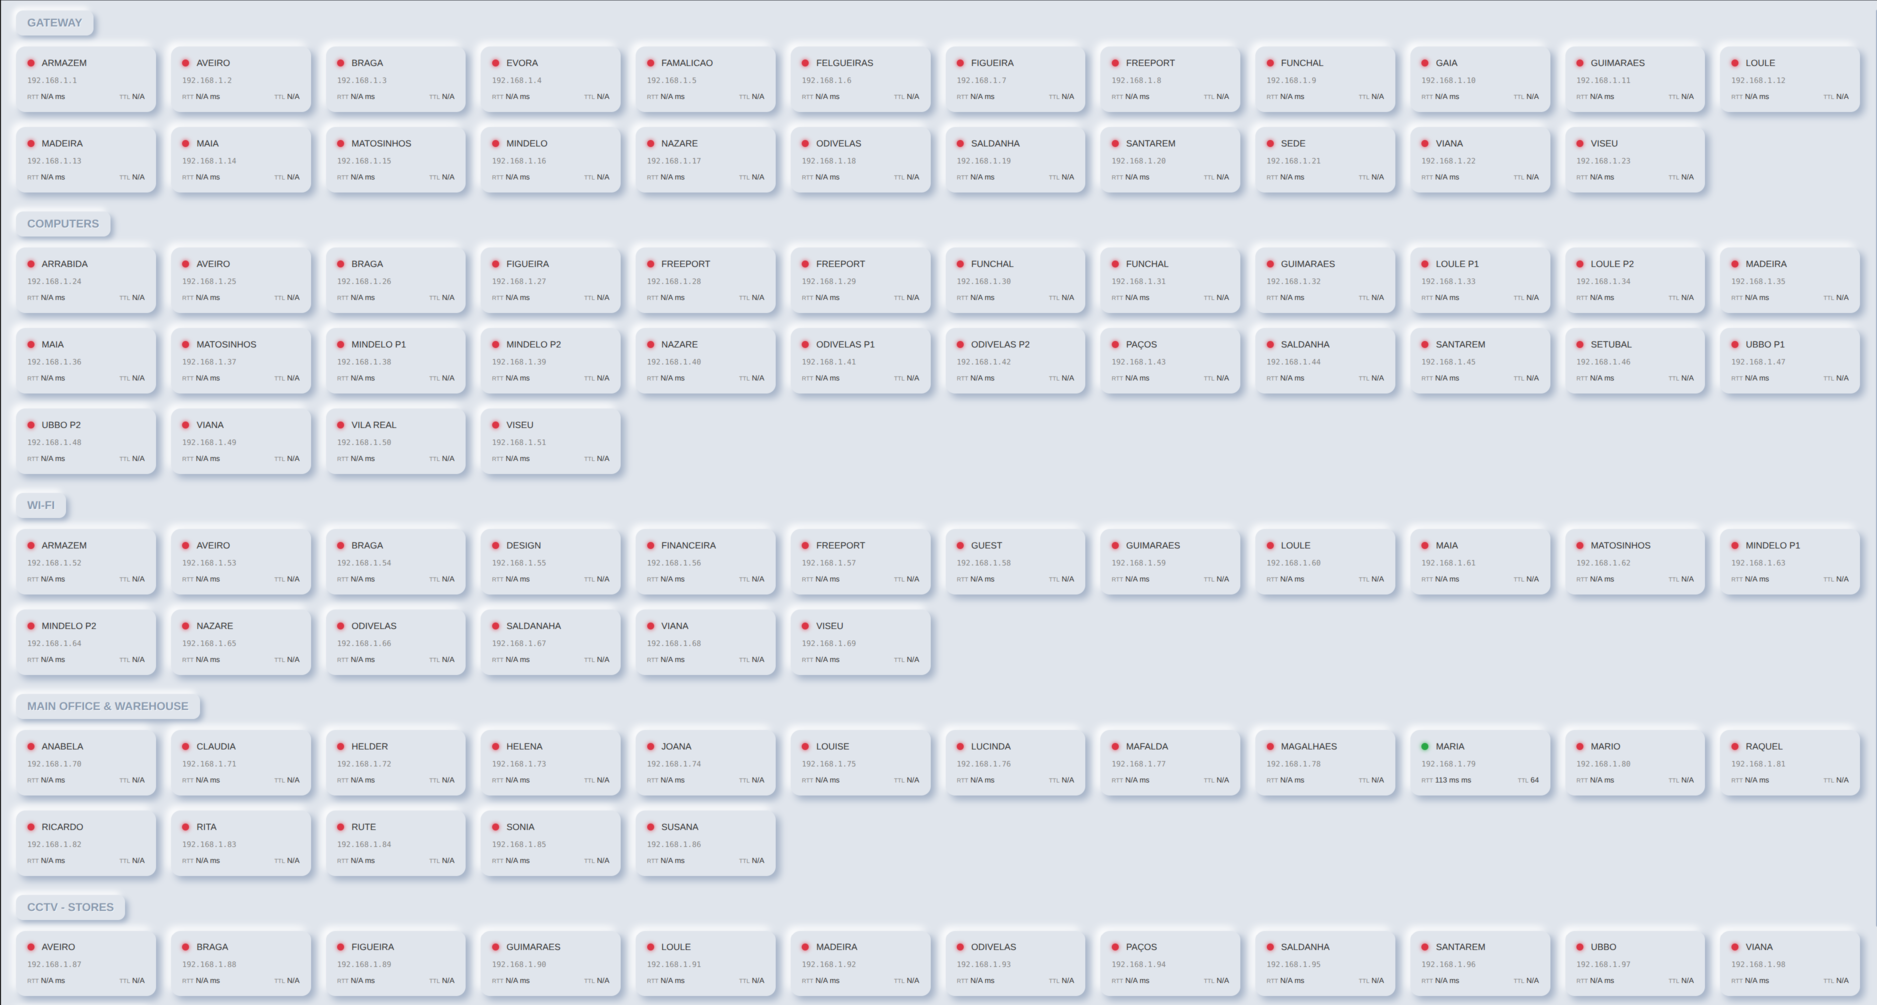
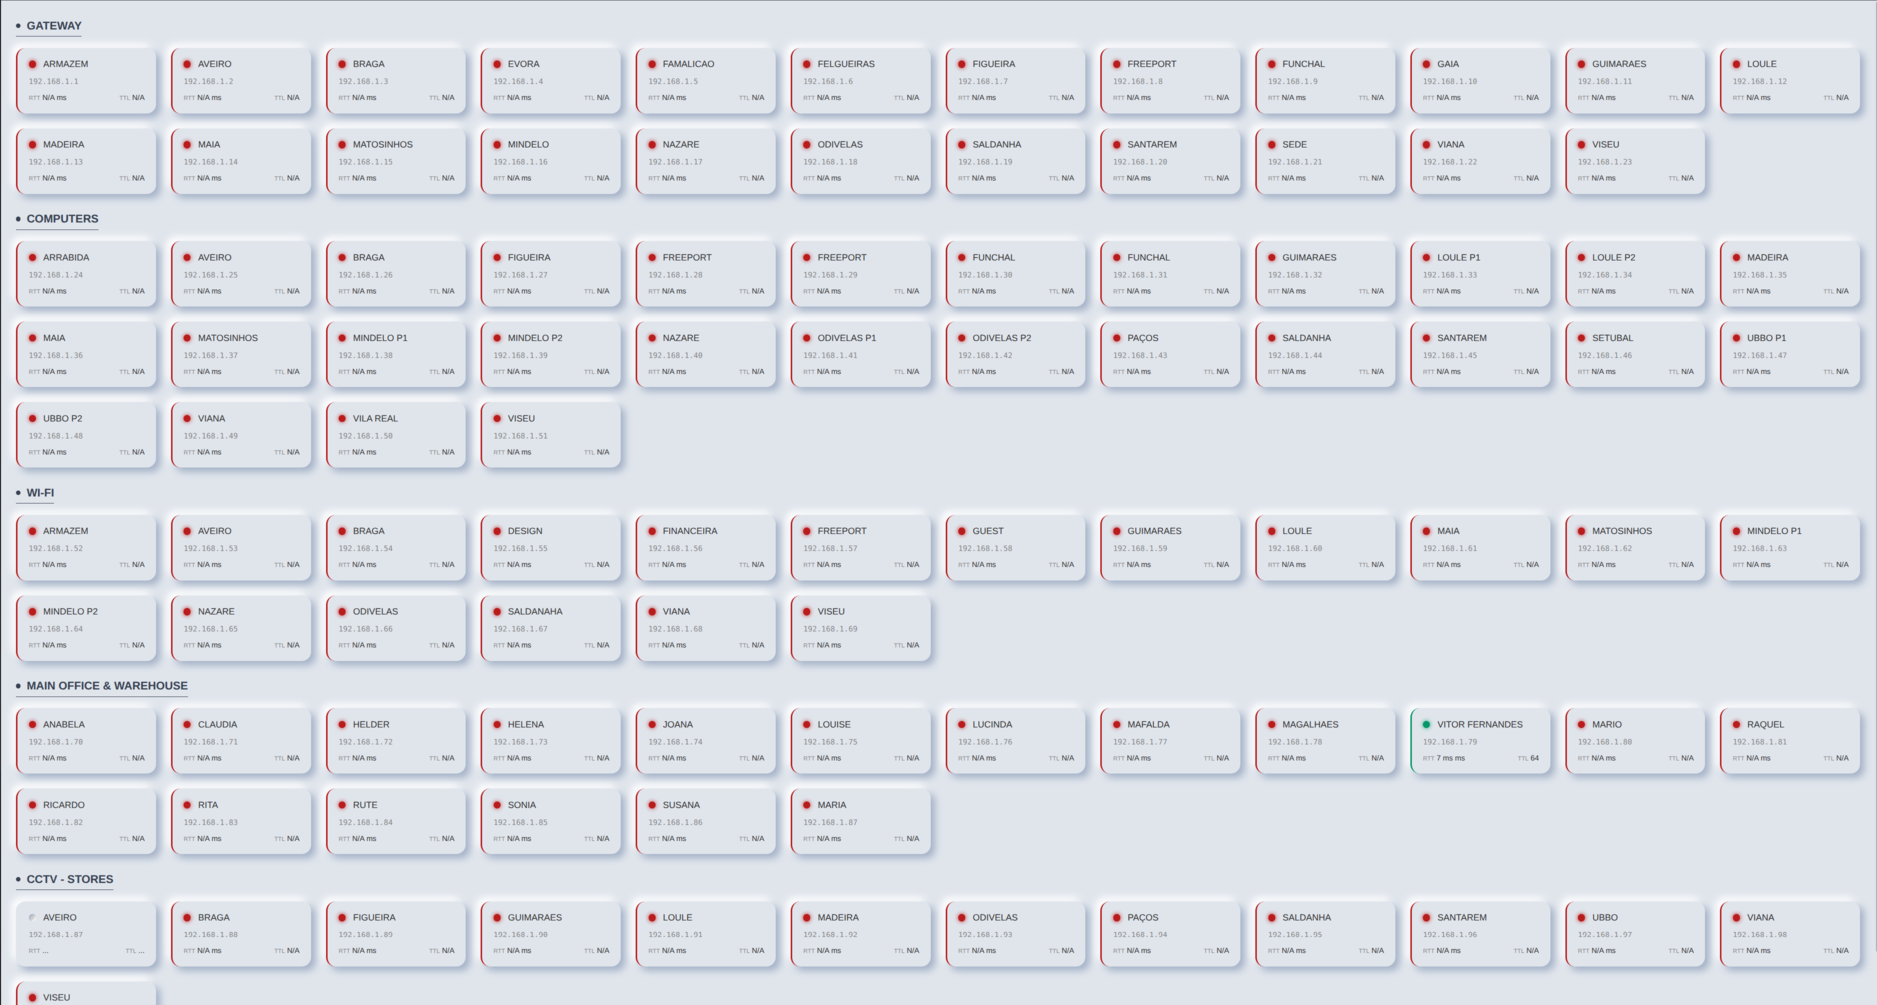
style: redesign UI with color accents and minimal titles
- Add charcoal gray titles with dot and underline (lighter design)
- Add left border to cards: green for online, red for offline
- Update status dots to match new color scheme (#059669 green, #b91c1c red)
- Update config.php device assignments
- Update screenshot with new UI design

diff --git a/css/estilo.css b/css/estilo.css
@@ -16,17 +16,25 @@ body {
 .category-section h2 {
   font-size: 1.5rem;
   font-weight: 700;
-  color: #8a9aaf;
-  text-shadow: 1px 1px 1px #ffffff;
+  color: #374151;
   margin-top: 0.5rem;
   margin-bottom: 1.5rem;
   text-transform: uppercase;
-  padding: 0.8rem 1.5rem;
-  border-radius: 15px;
-  box-shadow: 7px 7px 12px #a3b1c6,
-              -7px -7px 12px #ffffff;
-  display: inline-block;
+  padding-bottom: 0.5rem;
+  border-bottom: 2px solid #374151;
+  display: flex;
+  align-items: center;
+  gap: 0.8rem;
   width: fit-content;
+}
+
+.category-section h2::before {
+  content: '';
+  width: 10px;
+  height: 10px;
+  background: #374151;
+  border-radius: 50%;
+  flex-shrink: 0;
 }
 
 .device-grid {
@@ -42,6 +50,7 @@ body {
   background: #e0e5ec;
   box-shadow: 9px 9px 16px #a3b1c6, -9px -9px 16px #ffffff;
   transition: all 0.3s ease-in-out;
+  border-left: 4px solid transparent;
 }
 
 .device-card:hover {
@@ -63,14 +72,22 @@ body {
   box-shadow: inset 2px 2px 4px #a3b1c6, inset -2px -2px 4px #ffffff;
 }
 
+.device-card.online {
+  border-left-color: #059669;
+}
+
 .device-card.online .status-dot {
-  background-color: #28a745; /* Green */
-  box-shadow: 0 0 10px #28a745;
+  background-color: #059669;
+  box-shadow: 0 0 10px #059669;
+}
+
+.device-card.offline {
+  border-left-color: #b91c1c;
 }
 
 .device-card.offline .status-dot {
-  background-color: #dc3545; /* Red */
-  box-shadow: 0 0 10px #dc3545;
+  background-color: #b91c1c;
+  box-shadow: 0 0 10px #b91c1c;
 }
 
 .location {

diff --git a/config.php b/config.php
@@ -84,14 +84,15 @@ $ipsPC = [
     '192.168.1.76'  => 'LUCINDA',
     '192.168.1.77'  => 'MAFALDA',
     '192.168.1.78'  => 'MAGALHAES',
-    '192.168.1.79'  => 'MARIA',
+    '192.168.1.79'  => 'VITOR FERNANDES',
     '192.168.1.80'  => 'MARIO',
     '192.168.1.81'  => 'RAQUEL',
     '192.168.1.82'  => 'RICARDO',
     '192.168.1.83'  => 'RITA',
     '192.168.1.84'  => 'RUTE',
     '192.168.1.85'  => 'SONIA',
-    '192.168.1.86'  => 'SUSANA'
+    '192.168.1.86'  => 'SUSANA',
+    '192.168.1.87'  => 'MARIA'
 ];
 $ipsCCTV = [
     '192.168.1.87' => 'AVEIRO',
